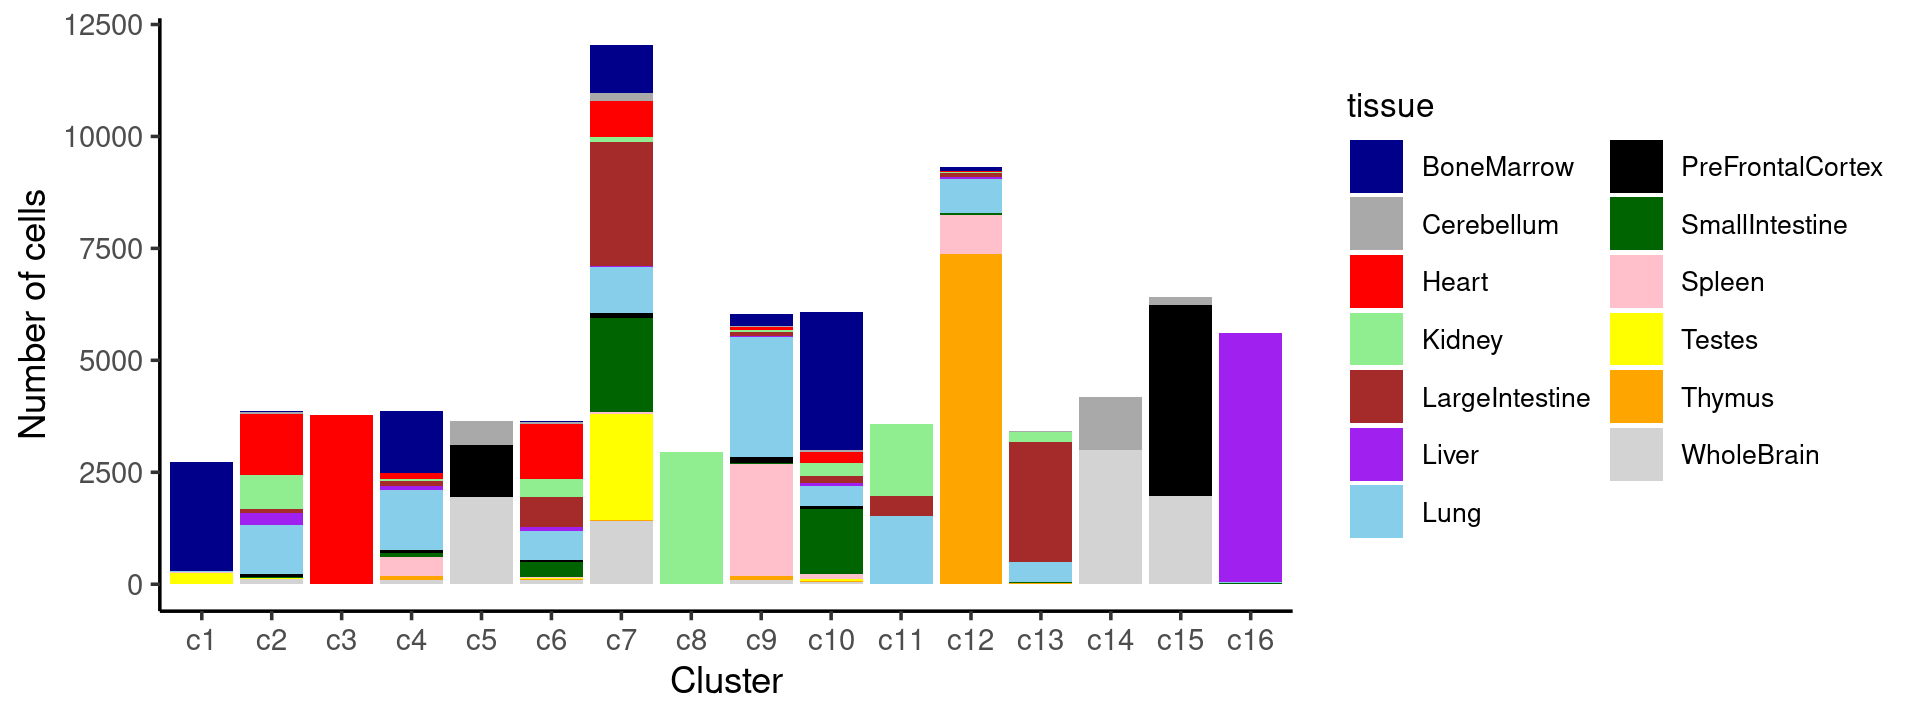
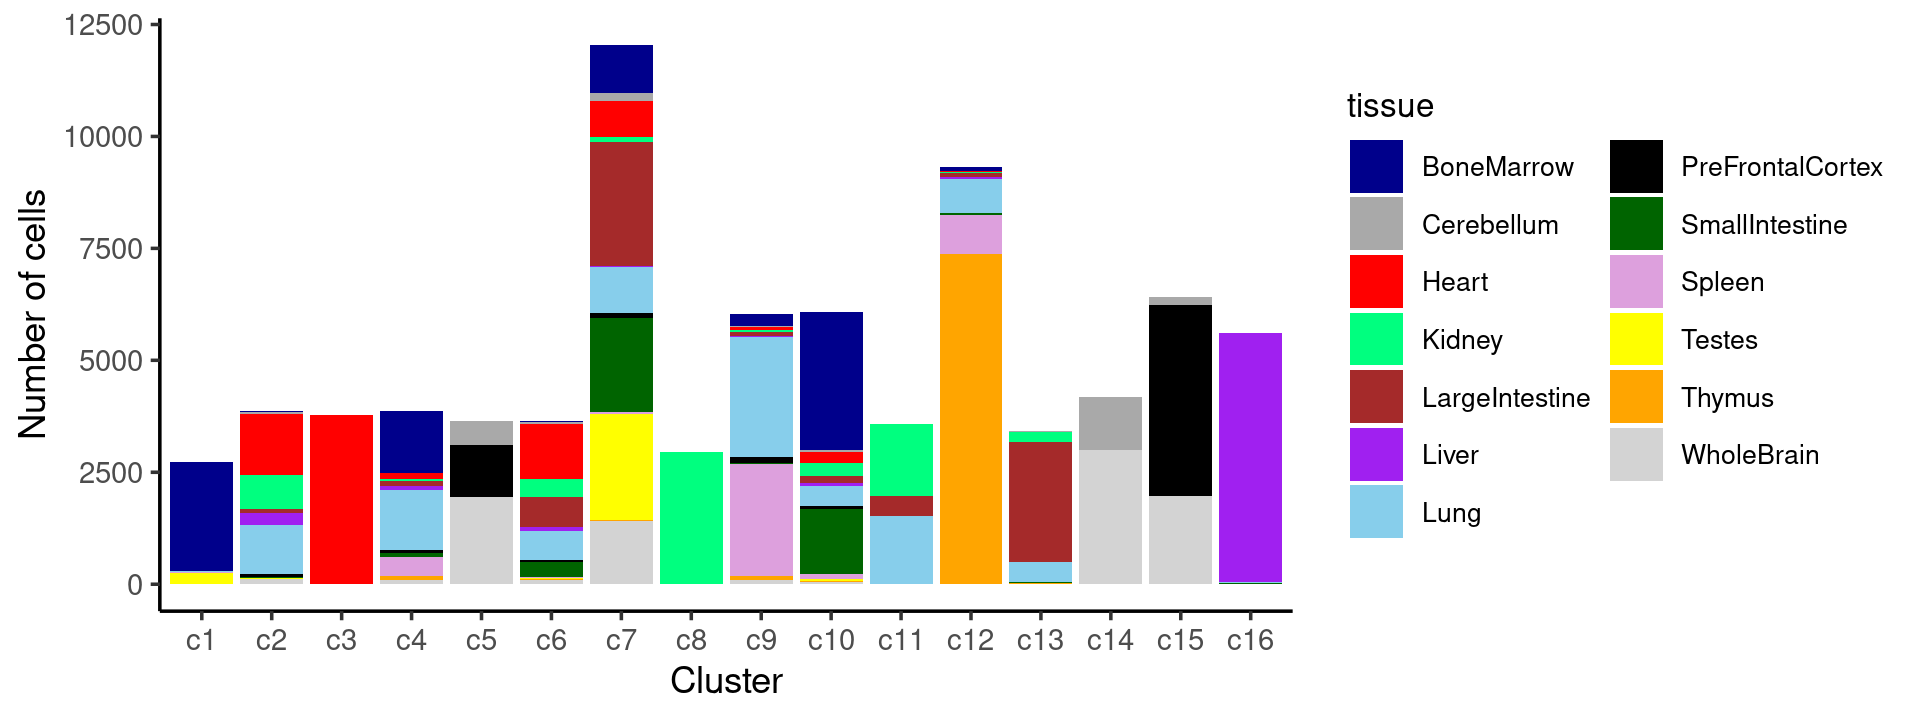
Build site.

diff --git a/docs/clusters_Cusanovich2018_k13.html b/docs/clusters_Cusanovich2018_k13.html
@@ -501,16 +501,16 @@ This reproducible <a href="http://rmarkdown.rstudio.com">R Markdown</a> analysis
 <div class="panel panel-default">
 <div class="panel-heading">
 <p class="panel-title">
-<a data-toggle="collapse" data-parent="#workflowr-checks" href="#strongRepositoryversionstrongahrefhttpsgithubcomstephenslabscATACseqtopicstreeab321de6a609e3a8d406a6079e1ce26d269082aetargetblankab321dea"> <span class="glyphicon glyphicon-ok text-success" aria-hidden="true"></span> <strong>Repository version:</strong> <a href="https://github.com/stephenslab/scATACseq-topics/tree/ab321de6a609e3a8d406a6079e1ce26d269082ae" target="_blank">ab321de</a> </a>
+<a data-toggle="collapse" data-parent="#workflowr-checks" href="#strongRepositoryversionstrongahrefhttpsgithubcomstephenslabscATACseqtopicstreebc7e77076cfad5ea602e9aace950bf6a94af3250targetblankbc7e770a"> <span class="glyphicon glyphicon-ok text-success" aria-hidden="true"></span> <strong>Repository version:</strong> <a href="https://github.com/stephenslab/scATACseq-topics/tree/bc7e77076cfad5ea602e9aace950bf6a94af3250" target="_blank">bc7e770</a> </a>
 </p>
 </div>
[2 lines of base64/hex data omitted]
 <div class="panel-body">
 <p>
 Great! You are using Git for version control. Tracking code development and connecting the code version to the results is critical for reproducibility.
 </p>
 <p>
-The results in this page were generated with repository version <a href="https://github.com/stephenslab/scATACseq-topics/tree/ab321de6a609e3a8d406a6079e1ce26d269082ae" target="_blank">ab321de</a>. See the <em>Past versions</em> tab to see a history of the changes made to the R Markdown and HTML files.
+The results in this page were generated with repository version <a href="https://github.com/stephenslab/scATACseq-topics/tree/bc7e77076cfad5ea602e9aace950bf6a94af3250" target="_blank">bc7e770</a>. See the <em>Past versions</em> tab to see a history of the changes made to the R Markdown and HTML files.
 </p>
 <p>
 Note that you need to be careful to ensure that all relevant files for the analysis have been committed to Git prior to generating the results (you can use <code>wflow_publish</code> or <code>wflow_git_commit</code>). workflowr only checks the R Markdown file, but you know if there are other scripts or data files that it depends on. Below is the status of the Git repository when the results were generated:
@@ -519,7 +519,6 @@ Note that you need to be careful to ensure that all relevant files for the analy
 Ignored files:
     Ignored:    .Rhistory
     Ignored:    .Rproj.user/
-    Ignored:    analysis/figure/
 
 Untracked files:
     Untracked:  analysis/clusters_pca_structure_Cusanovich2018.Rmd
@@ -573,6 +572,40 @@ Message
 </tr>
 </thead>
 <tbody>
+<tr>
+<td>
+Rmd
+</td>
+<td>
+<a href="https://github.com/stephenslab/scATACseq-topics/blob/bc7e77076cfad5ea602e9aace950bf6a94af3250/analysis/clusters_Cusanovich2018_k13.Rmd" target="_blank">bc7e770</a>
+</td>
+<td>
+kevinlkx
+</td>
+<td>
+2020-12-01
+</td>
+<td>
+update tissue colors
+</td>
+</tr>
+<tr>
+<td>
+html
+</td>
+<td>
+<a href="https://rawcdn.githack.com/stephenslab/scATACseq-topics/6c97fa964f13b229dbb6321d162a33ae59fa52a0/docs/clusters_Cusanovich2018_k13.html" target="_blank">6c97fa9</a>
+</td>
+<td>
+kevinlkx
+</td>
+<td>
+2020-12-01
+</td>
+<td>
+Build site.
+</td>
+</tr>
 <tr>
 <td>
 Rmd
@@ -1233,6 +1266,43 @@ p.structure.1 &lt;- structure_plot(select(poisson2multinom(fit),loadings = rows)
 
 print(p.structure.1)</code></pre>
 <p><img src="figure/clusters_Cusanovich2018_k13.Rmd/structure-plot-tissue-1.png" width="840" style="display: block; margin: auto;" /></p>
+<p>
+<button type="button" class="btn btn-default btn-xs btn-workflowr btn-workflowr-fig" data-toggle="collapse" data-target="#fig-structure-plot-tissue-1">
+Past versions of structure-plot-tissue-1.png
+</button>
+</p>
+<div id="fig-structure-plot-tissue-1" class="collapse">
+<div class="table-responsive">
+<table class="table table-condensed table-hover">
+<thead>
+<tr>
+<th>
+Version
+</th>
+<th>
+Author
+</th>
+<th>
+Date
+</th>
+</tr>
+</thead>
+<tbody>
+<tr>
+<td>
+<a href="https://github.com/stephenslab/scATACseq-topics/blob/6c97fa964f13b229dbb6321d162a33ae59fa52a0/docs/figure/clusters_Cusanovich2018_k13.Rmd/structure-plot-tissue-1.png" target="_blank">6c97fa9</a>
+</td>
+<td>
+kevinlkx
+</td>
+<td>
+2020-12-01
+</td>
+</tr>
+</tbody>
+</table>
+</div>
+</div>
 </div>
 <div id="k-means-clustering-on-topic-proportions" class="section level2">
 <h2>k-means clustering on topic proportions</h2>
@@ -1283,6 +1353,17 @@ Date
 </tr>
 </thead>
 <tbody>
+<tr>
+<td>
+<a href="https://github.com/stephenslab/scATACseq-topics/blob/6c97fa964f13b229dbb6321d162a33ae59fa52a0/docs/figure/clusters_Cusanovich2018_k13.Rmd/structure-plot-kmeans-1-1.png" target="_blank">6c97fa9</a>
+</td>
+<td>
+kevinlkx
+</td>
+<td>
+2020-12-01
+</td>
+</tr>
 <tr>
 <td>
 <a href="https://github.com/stephenslab/scATACseq-topics/blob/9d31a9fba6cedf2b9b3ee1072364767c4156ad73/docs/figure/clusters_Cusanovich2018_k13.Rmd/structure-plot-kmeans-1-1.png" target="_blank">9d31a9f</a>
@@ -1351,6 +1432,43 @@ p.structure.kmeans.refined &lt;- structure_plot(select(poisson2multinom(fit),loa
 # Perplexity automatically changed to 46 because original setting of 50 was too large for the number of samples (144)
 print(p.structure.kmeans.refined)</code></pre>
 <p><img src="figure/clusters_Cusanovich2018_k13.Rmd/structure-plot-kmeans-refined-1-1.png" width="840" style="display: block; margin: auto;" /></p>
+<p>
+<button type="button" class="btn btn-default btn-xs btn-workflowr btn-workflowr-fig" data-toggle="collapse" data-target="#fig-structure-plot-kmeans-refined-1-1">
+Past versions of structure-plot-kmeans-refined-1-1.png
+</button>
+</p>
+<div id="fig-structure-plot-kmeans-refined-1-1" class="collapse">
+<div class="table-responsive">
+<table class="table table-condensed table-hover">
+<thead>
+<tr>
+<th>
+Version
+</th>
+<th>
+Author
+</th>
+<th>
+Date
+</th>
+</tr>
+</thead>
+<tbody>
+<tr>
+<td>
+<a href="https://github.com/stephenslab/scATACseq-topics/blob/6c97fa964f13b229dbb6321d162a33ae59fa52a0/docs/figure/clusters_Cusanovich2018_k13.Rmd/structure-plot-kmeans-refined-1-1.png" target="_blank">6c97fa9</a>
+</td>
+<td>
+kevinlkx
+</td>
+<td>
+2020-12-01
+</td>
+</tr>
+</tbody>
+</table>
+</div>
+</div>
 <p>Group samples by k-means clusters first, then by tissue labels:</p>
 <pre class="r"><code>p.structure.kmeans.refined &lt;- structure_plot(select(poisson2multinom(fit),loadings = rows),
                      grouping = clusters.refined[rows],
@@ -1360,6 +1478,43 @@ print(p.structure.kmeans.refined)</code></pre>
                      num_threads = 4,verbose = FALSE)
 print(p.structure.kmeans.refined)</code></pre>
 <p><img src="figure/clusters_Cusanovich2018_k13.Rmd/structure-plot-kmeans-refined-2-1.png" width="840" style="display: block; margin: auto;" /></p>
+<p>
+<button type="button" class="btn btn-default btn-xs btn-workflowr btn-workflowr-fig" data-toggle="collapse" data-target="#fig-structure-plot-kmeans-refined-2-1">
+Past versions of structure-plot-kmeans-refined-2-1.png
+</button>
+</p>
+<div id="fig-structure-plot-kmeans-refined-2-1" class="collapse">
+<div class="table-responsive">
+<table class="table table-condensed table-hover">
+<thead>
+<tr>
+<th>
+Version
+</th>
+<th>
+Author
+</th>
+<th>
+Date
+</th>
+</tr>
+</thead>
+<tbody>
+<tr>
+<td>
+<a href="https://github.com/stephenslab/scATACseq-topics/blob/6c97fa964f13b229dbb6321d162a33ae59fa52a0/docs/figure/clusters_Cusanovich2018_k13.Rmd/structure-plot-kmeans-refined-2-1.png" target="_blank">6c97fa9</a>
+</td>
+<td>
+kevinlkx
+</td>
+<td>
+2020-12-01
+</td>
+</tr>
+</tbody>
+</table>
+</div>
+</div>
 <p>The clusters defined by k-means on topic proportions reasonably identify the clusters shown in the PCA hexbin plots (below).</p>
 <pre class="r"><code>p.pca.4.1 &lt;- labeled_pca_plot(fit,1:2,samples$cluster_kmeans,font_size = 7,
                        legend_label = &quot;cluster_kmeans&quot;)
@@ -1397,6 +1552,17 @@ Date
 </tr>
 </thead>
 <tbody>
+<tr>
+<td>
+<a href="https://github.com/stephenslab/scATACseq-topics/blob/6c97fa964f13b229dbb6321d162a33ae59fa52a0/docs/figure/clusters_Cusanovich2018_k13.Rmd/pca-kmeans-1-1.png" target="_blank">6c97fa9</a>
+</td>
+<td>
+kevinlkx
+</td>
+<td>
+2020-12-01
+</td>
+</tr>
 <tr>
 <td>
 <a href="https://github.com/stephenslab/scATACseq-topics/blob/32ed5aea68036d63ab78e7d417a8067660328456/docs/figure/clusters_Cusanovich2018_k13.Rmd/pca-kmeans-1-1.png" target="_blank">32ed5ae</a>
@@ -1479,8 +1645,8 @@ kevinlkx
 cat(length(levels(samples$tissue)), &quot;tissues. \n&quot;)
 table(samples$tissue)
 
-colors_tissues &lt;- c(&quot;darkblue&quot;, &quot;darkgray&quot;, &quot;red&quot;, &quot;lightgreen&quot;, &quot;brown&quot;, &quot;purple&quot;, &quot;skyblue&quot;, &quot;black&quot;,
-                    &quot;darkgreen&quot;, &quot;pink&quot;, &quot;yellow&quot;, &quot;orange&quot;, &quot;lightgray&quot;)
+colors_tissues &lt;- c(&quot;darkblue&quot;, &quot;darkgray&quot;, &quot;red&quot;, &quot;springgreen&quot;, &quot;brown&quot;, &quot;purple&quot;, &quot;skyblue&quot;, &quot;black&quot;,
+                    &quot;darkgreen&quot;, &quot;plum&quot;, &quot;yellow&quot;, &quot;orange&quot;, &quot;lightgray&quot;)
 # 13 tissues. 
 # 
 #       BoneMarrow       Cerebellum            Heart           Kidney 
@@ -1546,6 +1712,17 @@ Date
 <tbody>
 <tr>
 <td>
+<a href="https://github.com/stephenslab/scATACseq-topics/blob/6c97fa964f13b229dbb6321d162a33ae59fa52a0/docs/figure/clusters_Cusanovich2018_k13.Rmd/freq-cluster-tissue-1-1.png" target="_blank">6c97fa9</a>
+</td>
+<td>
+kevinlkx
+</td>
+<td>
+2020-12-01
+</td>
+</tr>
+<tr>
+<td>
 <a href="https://github.com/stephenslab/scATACseq-topics/blob/32ed5aea68036d63ab78e7d417a8067660328456/docs/figure/clusters_Cusanovich2018_k13.Rmd/freq-cluster-tissue-1-1.png" target="_blank">32ed5ae</a>
 </td>
 <td>
@@ -1605,6 +1782,17 @@ Date
 </tr>
 </thead>
 <tbody>
+<tr>
+<td>
+<a href="https://github.com/stephenslab/scATACseq-topics/blob/6c97fa964f13b229dbb6321d162a33ae59fa52a0/docs/figure/clusters_Cusanovich2018_k13.Rmd/freq-cluster-tissue-2-1.png" target="_blank">6c97fa9</a>
+</td>
+<td>
+kevinlkx
+</td>
+<td>
+2020-12-01
+</td>
+</tr>
 <tr>
 <td>
 <a href="https://github.com/stephenslab/scATACseq-topics/blob/32ed5aea68036d63ab78e7d417a8067660328456/docs/figure/clusters_Cusanovich2018_k13.Rmd/freq-cluster-tissue-2-1.png" target="_blank">32ed5ae</a>
@@ -1693,6 +1881,43 @@ p.barplot.3 &lt;- ggplot(freq_cluster_celllabel, aes(fill=cell_label, y=freq, x=
   )
 print(p.barplot.3)</code></pre>
 <p><img src="figure/clusters_Cusanovich2018_k13.Rmd/freq-cluster-celllabel-1-1.png" width="1200" style="display: block; margin: auto;" /></p>
+<p>
+<button type="button" class="btn btn-default btn-xs btn-workflowr btn-workflowr-fig" data-toggle="collapse" data-target="#fig-freq-cluster-celllabel-1-1">
+Past versions of freq-cluster-celllabel-1-1.png
+</button>
+</p>
+<div id="fig-freq-cluster-celllabel-1-1" class="collapse">
+<div class="table-responsive">
+<table class="table table-condensed table-hover">
+<thead>
+<tr>
+<th>
+Version
+</th>
+<th>
+Author
+</th>
+<th>
+Date
+</th>
+</tr>
+</thead>
+<tbody>
+<tr>
+<td>
+<a href="https://github.com/stephenslab/scATACseq-topics/blob/6c97fa964f13b229dbb6321d162a33ae59fa52a0/docs/figure/clusters_Cusanovich2018_k13.Rmd/freq-cluster-celllabel-1-1.png" target="_blank">6c97fa9</a>
+</td>
+<td>
+kevinlkx
+</td>
+<td>
+2020-12-01
+</td>
+</tr>
+</tbody>
+</table>
+</div>
+</div>
 <p>Percent stacked barplot for the counts of tissues by clusters:</p>
 <pre class="r"><code>
 p.barplot.4 &lt;- ggplot(freq_cluster_celllabel, aes(fill=cell_label, y=freq, x=cluster_kmeans)) + 
@@ -1706,6 +1931,43 @@ p.barplot.4 &lt;- ggplot(freq_cluster_celllabel, aes(fill=cell_label, y=freq, x=
   )
 print(p.barplot.4)</code></pre>
 <p><img src="figure/clusters_Cusanovich2018_k13.Rmd/freq-cluster-celllabel-2-1.png" width="1200" style="display: block; margin: auto;" /></p>
+<p>
+<button type="button" class="btn btn-default btn-xs btn-workflowr btn-workflowr-fig" data-toggle="collapse" data-target="#fig-freq-cluster-celllabel-2-1">
+Past versions of freq-cluster-celllabel-2-1.png
+</button>
+</p>
+<div id="fig-freq-cluster-celllabel-2-1" class="collapse">
+<div class="table-responsive">
+<table class="table table-condensed table-hover">
+<thead>
+<tr>
+<th>
+Version
+</th>
+<th>
+Author
+</th>
+<th>
+Date
+</th>
+</tr>
+</thead>
+<tbody>
+<tr>
+<td>
+<a href="https://github.com/stephenslab/scATACseq-topics/blob/6c97fa964f13b229dbb6321d162a33ae59fa52a0/docs/figure/clusters_Cusanovich2018_k13.Rmd/freq-cluster-celllabel-2-1.png" target="_blank">6c97fa9</a>
+</td>
+<td>
+kevinlkx
+</td>
+<td>
+2020-12-01
+</td>
+</tr>
+</tbody>
+</table>
+</div>
+</div>
 <pre class="r"><code>freq_table_cluster_celllabel &lt;- with(samples,table(cell_label,cluster_kmeans))
 print(freq_table_cluster_celllabel)
 #                             cluster_kmeans
@@ -1792,6 +2054,8 @@ print(freq_table_cluster_celllabel)
 #   Type I pneumocytes         1415    6  170    0    0    0
 #   Type II pneumocytes          66    0   68    0    0    0
 #   Unknown                      68    0  281   46  230    1</code></pre>
+<p>Save the clustering results to an RDS file</p>
+<pre class="r"><code>saveRDS(samples, &quot;output/clustering-Cusanovich2018.rds&quot;)</code></pre>
 <br>
 <p>
 <button type="button" class="btn btn-default btn-workflowr btn-workflowr-sessioninfo" data-toggle="collapse" data-target="#workflowr-sessioninfo" style="display: block;">
